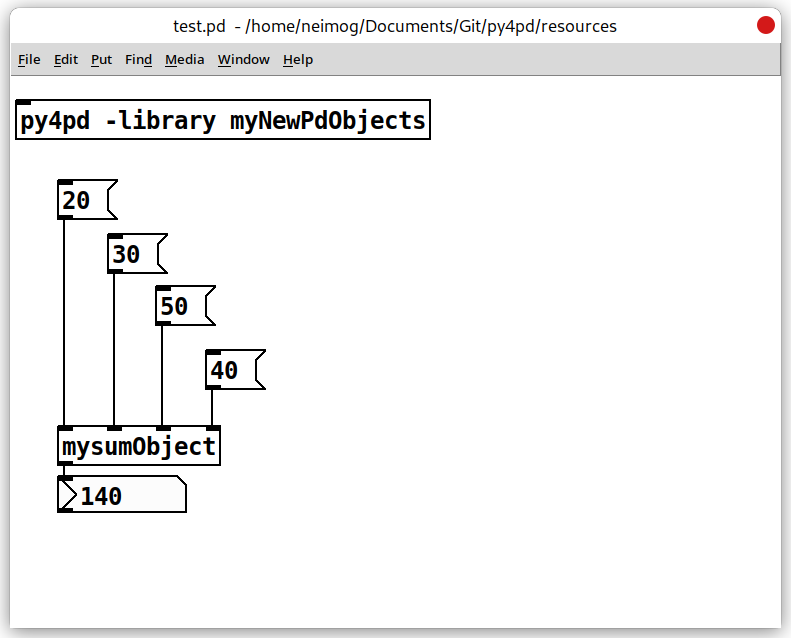
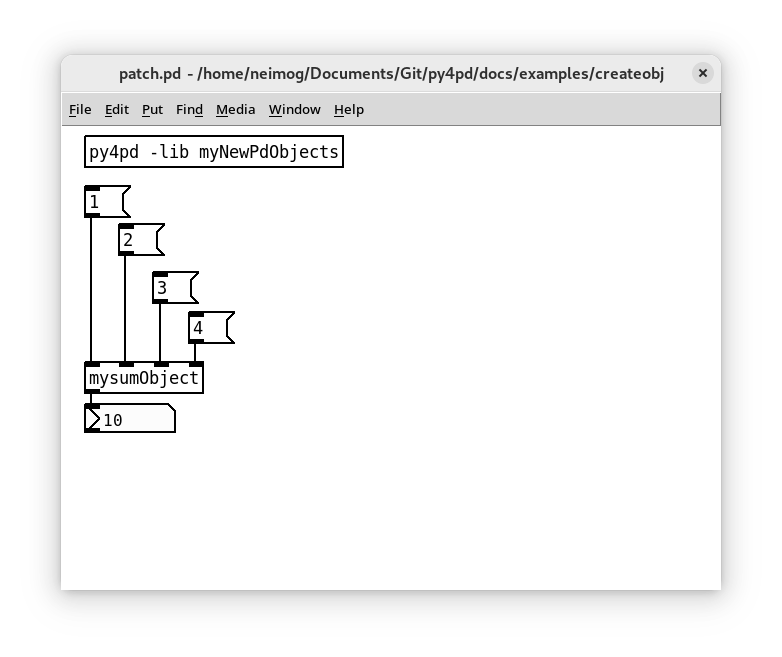
update docs

Changed region(s): [[0.0, 0.0, 1.0, 1.0]]

diff --git a/docs/examples/audioin/main.py b/docs/examples/audioin/main.py
@@ -1,0 +1,41 @@
+import pd
+import numpy
+
+def audioin(audio):
+    # do one simple fft and output the real part
+    fft = numpy.fft.fft(audio)
+    fft = numpy.real(fft)
+    return fft.tolist()
+
+
+
+
+def audioout(freq, amplitude):
+    if freq is None: 
+        return numpy.zeros(pd.vecsize())
+    else:
+        phase = pd.getglobalvar("PHASE", initial_value=0.0)
+        output = numpy.zeros(pd.vecsize())
+        increment = (freq * 2.0 * numpy.pi) / pd.samplerate()
+        for i in range(pd.vecsize()):
+            output[i] = numpy.sin(phase) * amplitude
+            phase += increment 
+            if phase > 2 * numpy.pi:
+                phase -= 2 * numpy.pi
+        # ---------
+        pd.setglobalvar("PHASE", phase) 
+        # it saves the value of phase for the next call of the function
+        # without this, we will not have a continuous sine wave.
+        return output
+
+def audio(audio, amplitude):
+    if amplitude is None:
+        amplitude = 0.2
+    audio = numpy.multiply(audio, amplitude)
+    return audio
+
+
+def py4pdLoadObjects():
+    pd.addobject(audioin, "audioin", objtype="AUDIOIN")
+    pd.addobject(audioout, "audioout", objtype="AUDIOOUT")
+    pd.addobject(audio, "audio", objtype="AUDIO")

diff --git a/docs/examples/audioout/main.py b/docs/examples/audioout/main.py
@@ -1,0 +1,23 @@
+import pd
+import numpy
+
+def audioout(freq, amplitude):
+    if freq is None: 
+        return numpy.zeros(pd.vecsize())
+    else:
+        phase = pd.getglobalvar("PHASE", initial_value=0.0)
+        output = numpy.zeros(pd.vecsize())
+        increment = (freq * 2.0 * numpy.pi) / pd.samplerate()
+        for i in range(pd.vecsize()):
+            output[i] = numpy.sin(phase) * amplitude
+            phase += increment 
+            if phase > 2 * numpy.pi:
+                phase -= 2 * numpy.pi
+        # ---------
+        pd.setglobalvar("PHASE", phase) 
+        # it saves the value of phase for the next call of the function
+        # without this, we will not have a continuous sine wave.
+        return output
+
+def py4pdLoadObjects():
+    pd.addobject(audioout, "audioout", objtype=pd.AUDIOOUT)

diff --git a/docs/examples/createobj/myNewPdObjects.py b/docs/examples/createobj/myNewPdObjects.py
@@ -1,0 +1,13 @@
+import pd
+
+def mysumObject(a, b, c, d):
+    return a + b + c + d
+
+def py4pdLoadObjects():
+    pd.addobject(mysumObject, "mysumObject") # function, string with name of the object
+    
+    # My License, Name and University, others information
+    pd.print("", show_prefix=False)
+    pd.print("GPL3 | by Charles K. Neimog", show_prefix=False)
+    pd.print("University of São Paulo", show_prefix=False)
+    pd.print("", show_prefix=False)

diff --git a/docs/examples/audio/main.py b/docs/examples/audio/main.py
@@ -1,0 +1,12 @@
+import pd
+import numpy
+
+def audio(audio, amplitude):
+    if amplitude is None:
+        amplitude = 0.2
+    audio = numpy.multiply(audio, amplitude)
+    return audio
+
+
+def py4pdLoadObjects():
+    pd.addobject(audio, "audio", objtype=pd.AUDIO)
